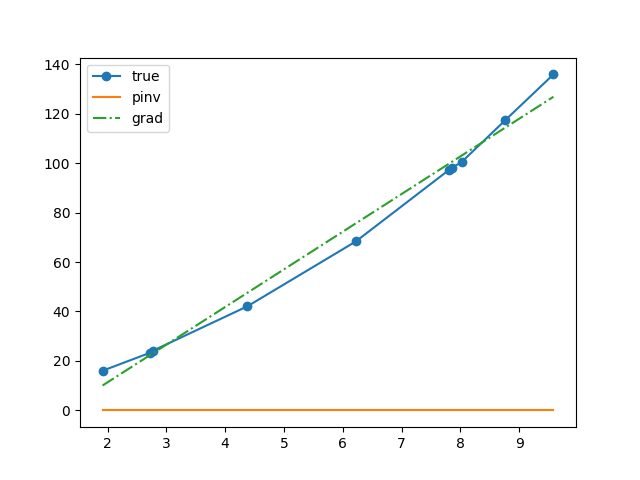
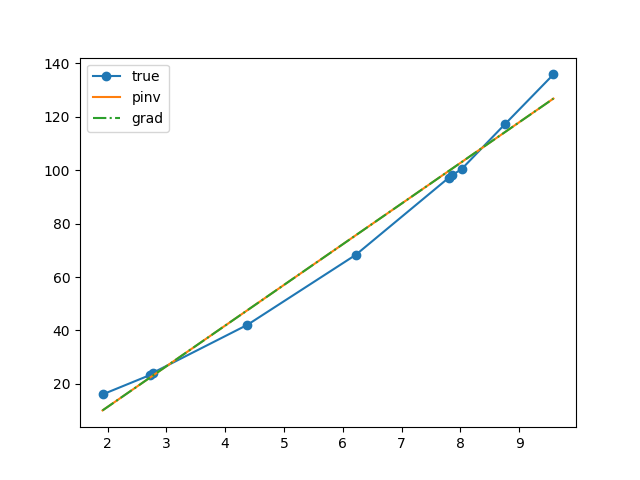
finished LR

diff --git a/logisticRegression.py b/logisticRegression.py
@@ -16,7 +16,7 @@ You are NOT allowed to import anything else.
 Following is a skeleton code which follows a Scikit style API.
 Make necessary changes, where required, to get it correctly running.
 
-Note: Running this empty template code might throw some error because 
+Note: Running this empty template code might throw some error because
 currently some return values are not as per the required API. You need to
 change them.
 
@@ -26,32 +26,35 @@ Good Luck!
 
 # ===== Helper Function for Plotting - DO NOT EDIT =============
 def boundary(w):
-    boundary_x1 = np.array([0,1])
-    boundary_x2 = -(w[0]*boundary_x1+w[2])/w[1]
-    midpt = np.array([0.5,-(w[0]*0.5+w[2])/w[1]])
-    vec = (w[:2])/np.linalg.norm(w[:2])
-    endpt = midpt + 0.1*vec
-    xvec = np.array([midpt[0],endpt[0]])
-    yvec = np.array([midpt[1],endpt[1]])
-    return (boundary_x1,boundary_x2), (xvec,yvec)
+    boundary_x1 = np.array([0, 1])
+    boundary_x2 = -(w[0] * boundary_x1 + w[2]) / w[1]
+    midpt = np.array([0.5, -(w[0] * 0.5 + w[2]) / w[1]])
+    vec = (w[:2]) / np.linalg.norm(w[:2])
+    endpt = midpt + 0.1 * vec
+    xvec = np.array([midpt[0], endpt[0]])
+    yvec = np.array([midpt[1], endpt[1]])
+    return (boundary_x1, boundary_x2), (xvec, yvec)
+
 
 def plot_boundary(w, quiet=True):
     bndry, direction = boundary(w)
-    b1,b2 = bndry
+    b1, b2 = bndry
     if not quiet:
         color = 'black'
-        plt.plot(b1,b2,'-',color=color,label='decision\nboundary')
+        plt.plot(b1, b2, '-', color=color, label='decision\nboundary')
     else:
         color = 'lightgray'
-        plt.plot(b1,b2,'-',color=color)
-    xvec,yvec = direction
-    plt.plot(xvec,yvec,'o-',color=color)
+        plt.plot(b1, b2, '-', color=color)
+    xvec, yvec = direction
+    plt.plot(xvec, yvec, 'o-', color=color)
 
 # =============================================================
 
+
 class LogisticRegression:
     def __init__(self,  alpha=1e-2):
-        self.w = np.array([0,-1,.5]) # You can use these as the initial values for the weights
+        # You can use these as the initial values for the weights
+        self.w = np.array([0, -1, .5])
 
     def fit(self, X, Y, epochs=10000):
         """
@@ -63,12 +66,13 @@ class LogisticRegression:
         IMP: Make use of self.w to ensure changes in the weight are reflected globally.
             We will be making use of get_params and set_params to check for correctness
         """
-        step = 0.0001 # set the value for step parameter
+        step = 0.0001  # set the value for step parameter
         for t in range(epochs):
             # WRITE the required CODE HERE to update the parameters using gradient descent
             # make use of self.loss_grad() function
             if t % 100 == 0:
                 plot_boundary(self.w)
+            self.w = self.w - step * self.loss_grad(self.w, X, Y)
 
     def predict(self, X):
         """
@@ -78,7 +82,11 @@ class LogisticRegression:
         """
 
         # WRITE the required CODE HERE and return the computed values
-        return 0
+        predict_result = []
+        for input in X:
+            pred = self.w.dot(input)
+            predict_result.append(pred)
+        return predict_result
 
     def loss(self, w, X, Y):
         """
@@ -89,7 +97,11 @@ class LogisticRegression:
         """
 
         # WRITE the required CODE HERE and return the computed values
-        return 0
+        nb_samples = X.shape[0]
+        sum_loss = 0.0
+        for i in range(nb_samples):
+            sum_loss += self.loss_helper(X[i], Y[i])
+        return sum_loss / nb_samples
 
     def loss_grad(self, w, X, y):
         """
@@ -101,7 +113,11 @@ class LogisticRegression:
         :return: vector of size (3,) containing gradients for each weight
         """
         # WRITE the required CODE HERE and return the computed values
-        return 0
+        matrix = X.dot(w)
+        sig = self.sigmoid(matrix)
+        computed_matrix = (sig - y).T
+        computed_loss = computed_matrix.dot(X)
+        return computed_loss
 
     def get_params(self):
         """
@@ -119,6 +135,16 @@ class LogisticRegression:
         """
         self.w = w
         return 0
+
+    def sigmoid(self, matrix):
+        denominator = 1 + np.exp(-1 * matrix)
+        return 1 / denominator
+
+    def loss_helper(self, x, y):
+        matrix = self.w.T.dot(x)
+        sig = self.sigmoid(matrix)
+        computed_loss = -y * np.log(sig) - (1 - y) * np.log(1 - sig)
+        return computed_loss
 
 
 if __name__ == '__main__':

diff --git a/linearRegression.py b/linearRegression.py
@@ -18,7 +18,7 @@ You are NOT allowed to import anything else.
 Following is a skeleton code which follows a Scikit style API.
 Make necessary changes, where required, to get it correctly running.
 
-Note: Running this empty template code might throw some error because 
+Note: Running this empty template code might throw some error because
 currently some return values are not as per the required API. You need to
 change them.
 
@@ -47,17 +47,20 @@ class LinearRegression:
                 # WRITE the required CODE HERE to update the parameters using gradient descent
                 # make use of self.loss_grad() function
                 if t % 100 == 0:
-                    print("Epoch: {} :: loss: {}".format(t, self.loss(self.w, X, y)))
+                    print("Epoch: {} :: loss: {}".format(
+                        t, self.loss(self.w, X, y)))
 
                 self.w = self.w - step * self.loss_grad(self.w, X, Y)
 
         elif self.flag == 'Analytic':
-            pass
             # Remember: matrix inverse in NOT equal to matrix**(-1)
             # WRITE the required CODE HERE to update the weights using closed form solution
+            inverse = self.pseudoinverse(X)
+            self.w = np.dot(inverse, Y)
 
         else:
-            raise ValueError('flag can only be either: ''GradientDescent'' or ''Analytic''')
+            raise ValueError(
+                'flag can only be either: ''GradientDescent'' or ''Analytic''')
 
     def predict(self, X):
         """
@@ -85,11 +88,11 @@ class LinearRegression:
         # WRITE the required CODE HERE and return the computed values
         total_loss = 0.0
         for i in range(X.shape[0]):
-            single_loss = np.dot(w.T,X[i]) - Y[i]
+            single_loss = np.dot(w.T, X[i]) - Y[i]
             single_loss_sq = np.square(single_loss)
             total_loss += single_loss_sq
         norm_weight = np.sum(np.square(w))
-        return total_loss/2 + self.alpha*norm_weight
+        return total_loss / 2 + self.alpha * norm_weight
 
     def loss_grad(self, w, X, y):
         """
@@ -125,6 +128,10 @@ class LinearRegression:
         self.w = w
         return 0
 
+    def pseudoinverse(self, X):
+        A_a = np.dot(X.T, X) + 2 * self.alpha * np.eye(X.shape[1])
+        A_a_inverse = np.linalg.inv(A_a).dot(X.T)
+        return A_a_inverse
 
 
 if __name__ == '__main__':
@@ -134,13 +141,13 @@ if __name__ == '__main__':
 
     # Linear regression with gradient descent
     model = LinearRegression(flag='GradientDescent')
-    model.fit(X,y)
+    model.fit(X, y)
     y_grad = model.predict(X)
     w_grad = model.get_params()
 
     # Analytic Linear regression
     model = LinearRegression(flag='Analytic')
-    model.fit(X,y)
+    model.fit(X, y)
     y_exact = model.predict(X)
     w_exact = model.get_params()
 
